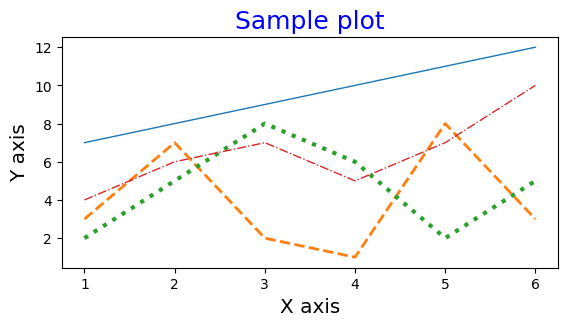
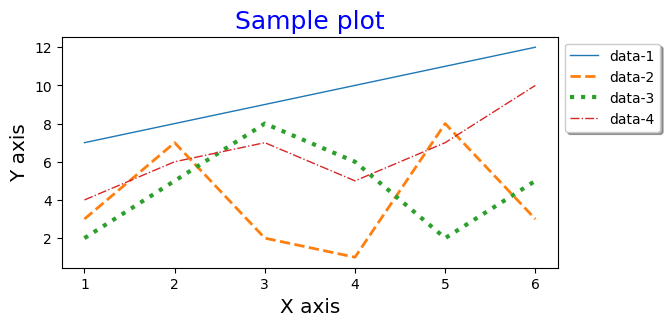
first

diff --git a/_posts/2024-11-15-matplotlib.md b/_posts/2024-11-15-matplotlib.md
@@ -37,6 +37,7 @@ date: 2024-11-10 3:00:00
 import numpy as np
 import matplotlib.pyplot as plt
 
+
 def setText(plt, title, xlabel, ylabel, fontsize):
     font1 = {"color": "blue", "size": fontsize}
     font2 = {"size": fontsize * 4 / 5}
@@ -45,12 +46,15 @@ def setText(plt, title, xlabel, ylabel, fontsize):
     plt.xlabel(xlabel, fontdict=font2)
     plt.ylabel(ylabel, fontdict=font3)
 
-def plot(plt, x, y, lwidth, lstyle):
-    plt.plot(x, y, linewidth=lwidth, ls=lstyle)
+
+def plot(plt, x, y, lwidth, lstyle, legend):
+    plt.plot(x, y, linewidth=lwidth, ls=lstyle, label=legend)
+
 
 def setPlotView(plt, width, height):
     plt.figure().set_figwidth(width)
     plt.figure().set_figheight(height)
+
 
 x = [1, 2, 3, 4, 5, 6]
 y = [7, 8, 9, 10, 11, 12]
@@ -61,11 +65,12 @@ y3 = [4, 6, 7, 5, 7, 10]
 setPlotView(plt, 5, 3)
 setText(plt, "Sample plot", "X axis", "Y axis", 18)
 
-plot(plt, x, y, 1, "-")
-plot(plt, x, y1, 2, "--")
-plot(plt, x, y2, 3, ":")
-plot(plt, x, y3, 1, "-.")
+plot(plt, x, y, 1, "-", "data-1")
+plot(plt, x, y1, 2, "--", "data-2")
+plot(plt, x, y2, 3, ":", "data-3")
+plot(plt, x, y3, 1, "-.", "data-4")
 
+plt.legend(bbox_to_anchor=(1, 1), fancybox=True, shadow=True)
 plt.show()
 ```
 ![Alt X](../assets/img/python/matplot-1.png)
